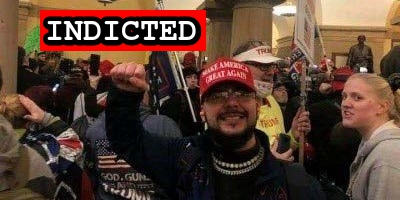
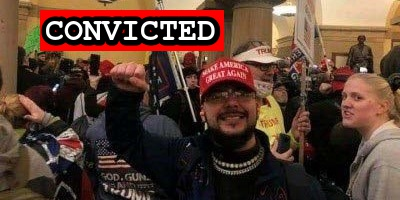
Plea deal

Changed region(s): [[0.09, 0.03, 0.57, 0.27]]

diff --git a/docs/_suspects/jack-griffith.md b/docs/_suspects/jack-griffith.md
@@ -3,11 +3,11 @@ name: Jack Griffith
 lastName: Griffith
 aka: Juan Bibiano
 residence: Tennessee
-status: Indicted
+status: Convicted
 date: 2021-01-16
 charged: 2021-01-16
 indicted: 2021-03-10
-convicted: 
+convicted: 2021-07-29
 sentenced: 
 dismissed: 
 age: 25
